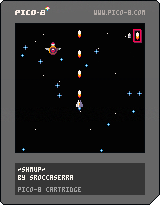
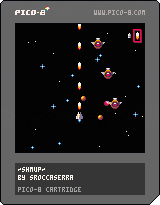
Gfx & gameplay adjustments (speed, rates)

diff --git a/README.md b/README.md
@@ -1,10 +1,10 @@
+Random enemy waves demo:
+
+![enemy demo](images/shmup_4.gif?raw=true)
+
 Shot change demo:
 
 ![shot change demo](images/shmup_2.gif?raw=true)
-
-Shoot enemy demo:
-
-![enemy demo](images/shmup_3.gif?raw=true)
 
 Cart:
 
